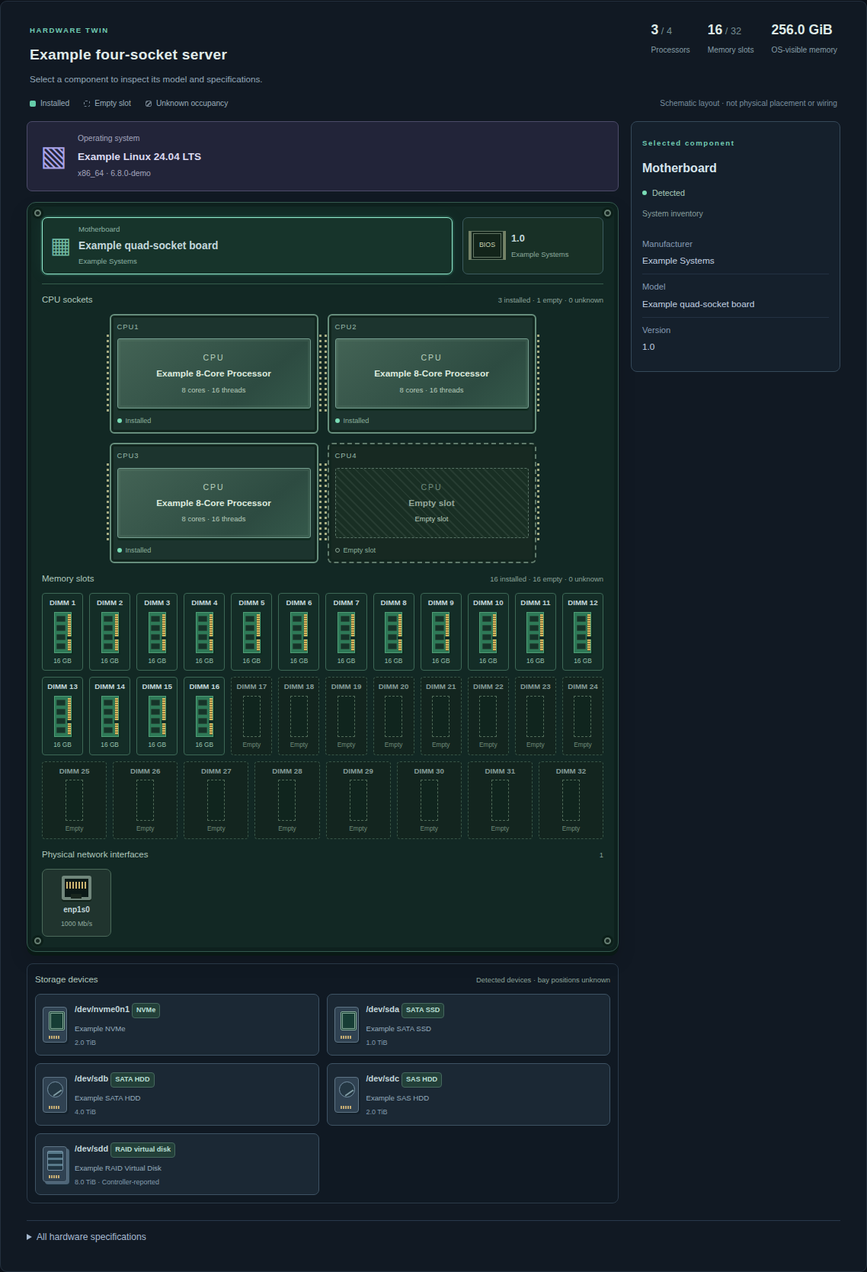
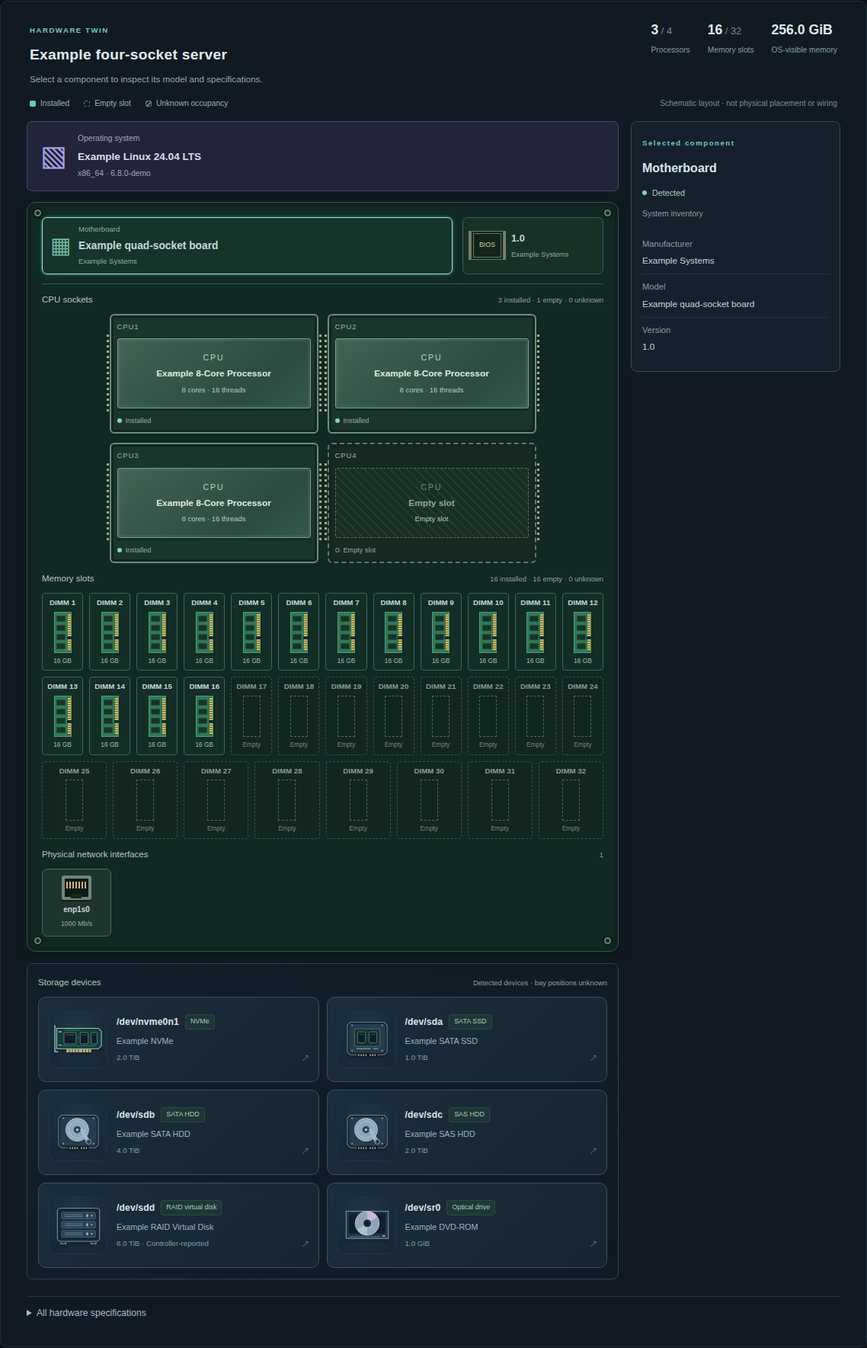
Redesign storage hardware illustrations and prepare v1.4.0

Changed region(s): [[0.0, 0.0, 1.0, 1.0], [0.7381, 0.0, 0.9534, 0.2804], [0.6766, 0.1558, 0.7074, 0.1869]]

diff --git a/static/style.css b/static/style.css
@@ -237,9 +237,6 @@ main,.content,.metric-card,.system-strip>div,.chart-grid>*,.power-grid>*,.toolba
 .twin-storage{margin-top:22px;border:1px solid #2b3b4a;border-radius:8px;padding:0 14px 14px;background:#101923}
 .twin-drives{display:grid;grid-template-columns:repeat(2,minmax(0,1fr));gap:10px}.twin-drive{display:flex;gap:10px;align-items:center;padding:12px;background:#1b2834;border-color:#3e5364}
 .twin-drive:hover{background:#243442}.twin-drive-caption{min-width:0}.twin-drive strong{font-size:.68rem;line-height:1.4}.twin-drive-caption>span{font-size:.6rem;color:#96adbe;line-height:1.5;margin:5px 0}.twin-drive small{font-size:.56rem;color:#839cae;line-height:1.5}
-.twin-drive-icon{width:32px;min-width:32px;height:47px;border:1px solid #5f7586;border-radius:4px;background:#304252;position:relative;box-shadow:2px 2px #14212b}
-.twin-drive-icon:before{content:'';position:absolute;width:19px;height:19px;border:1px solid #7591a4;border-radius:50%;left:5px;top:5px;background:#243743}.twin-drive-icon:after{content:'';position:absolute;width:15px;height:4px;bottom:4px;left:7px;background:repeating-linear-gradient(to right,#c6ad74 0 2px,transparent 2px 3px)}
-.twin-drive-icon i{position:absolute;width:13px;height:2px;top:19px;left:12px;background:#819da5;transform:rotate(-35deg)}.twin-drive-icon.optical{height:36px;width:37px;min-width:37px}
 .twin-inspector{border:1px solid #35495a;border-radius:8px;padding:18px;background:#15202c;position:sticky;top:83px;max-height:calc(100vh - 115px);overflow:auto;min-width:0;scrollbar-width:thin;scrollbar-color:#3f5b6b transparent}
 .twin-inspector h4{margin:10px 0;font-size:1rem;font-weight:550;color:#d7e5ed;overflow-wrap:anywhere}
 .twin-inspector .hardware-fields>div{grid-template-columns:minmax(0,1fr);gap:4px;padding:11px 0}.twin-inspector .hardware-fields{font-size:.7rem}.twin-inspector .hardware-fields dd{font-size:.74rem}
@@ -256,7 +253,7 @@ main,.content,.metric-card,.system-strip>div,.chart-grid>*,.power-grid>*,.toolba
 @media(max-width:600px){.twin-cpu-package{min-height:110px;aspect-ratio:auto}}
 
 /* Compact schematic; DIMM contacts run along the long edge, with a keyed notch. */
-.hardware-panel{padding:16px;min-width:0}.twin-heading{padding-top:4px;gap:12px}.twin-board{padding:19px}.twin-board-header{padding-bottom:12px;margin-bottom:12px}.twin-zone-heading{margin:12px 0 9px}.twin-cpu-grid{gap:12px;max-width:560px}.twin-cpu-package{min-height:92px;aspect-ratio:auto;padding:10px 8px;gap:5px}.twin-cpu{padding:8px}.twin-dimm{min-height:96px;gap:5px;padding:6px 3px}.twin-dimm-stick{height:54px;width:23px;border:1px solid #4f9e76;padding-right:4px}.twin-dimm-stick i{width:12px;height:8px}.twin-installed .twin-dimm-stick:before{content:'';position:absolute;right:0;top:2px;bottom:2px;width:4px;background:repeating-linear-gradient(to bottom,#d7b960 0 2px,#735f2e 2px 3px)}.twin-installed .twin-dimm-stick:after{content:'';left:auto;right:-1px;top:60%;bottom:auto;width:6px;height:4px;background:#142d27}.twin-empty .twin-dimm-stick:before,.twin-unknown .twin-dimm-stick:before,.twin-unknown .twin-dimm-stick:after{display:none}.twin-nic{padding:8px 10px;gap:5px}.twin-storage{margin-top:15px;padding:0 10px 10px}.twin-drive{padding:9px}.twin-inspector{padding:14px}.twin-inspector .hardware-fields>div{padding:8px 0}.twin-drive-type{display:inline-block;font-style:normal;font-size:.57rem;color:#b9dfd5;background:#234039;border:1px solid #46685e;padding:2px 5px;border-radius:4px;margin:2px 0;line-height:1.5}.twin-drive-icon.ssd:before{border-radius:2px;width:15px;height:19px;left:7px;background:#163d35;border:3px double #87ac99}.twin-drive-icon.ssd i{display:none}.twin-drive-icon.raid{box-shadow:3px 3px #4d6577,6px 6px #192a36}.twin-drive-icon.raid:before{border-radius:2px;height:24px;background:repeating-linear-gradient(to bottom,#587a8b 0 3px,#213643 3px 8px)}.twin-drive-icon.raid i,.twin-drive-icon.virtual i,.twin-drive-icon.unknown i{display:none}.twin-drive-icon.virtual:before,.twin-drive-icon.unknown:before{border-radius:3px;border-style:dashed;background:transparent}
+.hardware-panel{padding:16px;min-width:0}.twin-heading{padding-top:4px;gap:12px}.twin-board{padding:19px}.twin-board-header{padding-bottom:12px;margin-bottom:12px}.twin-zone-heading{margin:12px 0 9px}.twin-cpu-grid{gap:12px;max-width:560px}.twin-cpu-package{min-height:92px;aspect-ratio:auto;padding:10px 8px;gap:5px}.twin-cpu{padding:8px}.twin-dimm{min-height:96px;gap:5px;padding:6px 3px}.twin-dimm-stick{height:54px;width:23px;border:1px solid #4f9e76;padding-right:4px}.twin-dimm-stick i{width:12px;height:8px}.twin-installed .twin-dimm-stick:before{content:'';position:absolute;right:0;top:2px;bottom:2px;width:4px;background:repeating-linear-gradient(to bottom,#d7b960 0 2px,#735f2e 2px 3px)}.twin-installed .twin-dimm-stick:after{content:'';left:auto;right:-1px;top:60%;bottom:auto;width:6px;height:4px;background:#142d27}.twin-empty .twin-dimm-stick:before,.twin-unknown .twin-dimm-stick:before,.twin-unknown .twin-dimm-stick:after{display:none}.twin-nic{padding:8px 10px;gap:5px}.twin-storage{margin-top:15px;padding:0 10px 10px}.twin-drive{padding:9px}.twin-inspector{padding:14px}.twin-inspector .hardware-fields>div{padding:8px 0}.twin-drive-type{display:inline-block;font-style:normal;font-size:.57rem;color:#b9dfd5;background:#234039;border:1px solid #46685e;padding:2px 5px;border-radius:4px;margin:2px 0;line-height:1.5}
 @media(max-width:600px){.hardware-panel{padding:10px}.twin-board{padding:18px 12px}.twin-cpu-package{min-height:88px}.sidebar nav a{padding-inline:7px}}
 
 /* Consistent native controls preserve keyboard navigation and mobile pickers. */
@@ -267,3 +264,13 @@ select:hover{border-color:#62897e;background-color:#1e3040}select:focus-visible{
 /* Keep confirmed capacity visible while historical ownership catches up. */
 .disk-user-table .stale-allocation th,.disk-user-table .stale-allocation td,.disk-user-table .stale-allocation .storage-link{color:#8e9bab}.stale-allocation .user-swatch{background:#7b8593!important}.stale-note{padding:9px 11px;background:#939ead0a;border-left:2px solid #778697}.event-status{margin:0;padding:8px 18px 10px;font-size:.68rem;color:#8d9eb4;overflow-wrap:anywhere}.events-panel .panel-heading{padding:15px 18px 0}.events-panel #event-list{max-height:360px;overflow:auto;overscroll-behavior:contain;scrollbar-width:thin;scrollbar-color:#435a6c transparent}.events-panel #event-list:focus-visible{outline:2px solid #76d8b6;outline-offset:-2px}.events-panel .event{grid-template-columns:150px 120px minmax(0,1fr);padding:9px 18px;gap:7px 12px;font-size:.74rem;line-height:1.5}.events-panel .event time{font-size:.66rem}.events-panel .event .pill{font-size:.62rem;white-space:normal}.events-panel .event small{font-size:.6rem;margin-top:1px}.events-panel .load-more{padding:10px}.events-panel .event-text{min-width:0}
 @media(max-width:600px){.events-panel .event{grid-template-columns:minmax(0,1fr) auto;padding:9px 13px;gap:4px 8px}.events-panel .event .event-text{grid-column:1/-1}.events-panel #event-list{max-height:320px}.events-panel .panel-heading{padding:13px 13px 0}.event-status{padding-inline:13px}}
+
+/* Storage illustrations share a view box, lighting and visual weight. */
+.twin-storage{padding:4px 14px 14px;background:linear-gradient(145deg,#111e29,#101923);border-color:#304452}.twin-drives{grid-template-columns:repeat(auto-fit,minmax(min(100%,260px),1fr));gap:10px}.twin-drive{position:relative;display:grid;grid-template-columns:76px minmax(0,1fr);gap:13px;align-items:center;min-height:112px;padding:13px;background:linear-gradient(140deg,#1c2d3b,#162531);border-color:#385061;border-radius:10px;isolation:isolate}.twin-drive-art{display:grid;place-items:center;width:76px;height:76px;border-radius:12px;background:radial-gradient(ellipse at 50% 35%,#405d7140,#0b172544);border:1px solid #6e8ca51a;color:#80c8b5}.drive-glyph{display:block;width:76px;height:auto;filter:drop-shadow(0 4px 2px #050e164d)}.drive-hdd{color:#8bbce2}.drive-nvme{color:#82dbc7}.drive-raid{color:#99b9f0}.drive-optical{color:#b5a4da}.drive-virtual{color:#b0a2d6}.drive-unknown{color:#8d9eae}.twin-drive-caption{display:flex;flex-direction:column;gap:7px;min-width:0}.twin-drive-caption>.twin-drive-topline{display:flex;gap:6px 8px;align-items:center;flex-wrap:wrap;margin:0}.twin-drive-topline strong{font-size:.76rem;color:#d9e6ed;letter-spacing:.01em}.twin-drive-type{margin:0;font-size:.56rem;padding:2px 6px;color:#a9cbbb;background:#26413688;border-color:#527c674d;line-height:1.55}.twin-drive-caption>.twin-drive-model{font-size:.67rem;color:#9db2c3;line-height:1.5;margin:0;overflow-wrap:anywhere}.twin-drive-caption>.twin-drive-bottom{display:flex;align-items:center;justify-content:space-between;gap:8px;margin:0}.twin-drive-bottom small{font-size:.61rem;color:#829dad;font-variant-numeric:tabular-nums}.twin-drive-arrow{font-size:.95rem;line-height:1;color:#7897a7;opacity:.65;flex-shrink:0}.twin-drive[aria-pressed=true]{background:linear-gradient(135deg,#223d3c,#192e35);border-color:#82d3b7;box-shadow:inset 0 0 0 1px #82d3b71a,0 4px 16px #0002}.twin-drive[aria-pressed=true] .twin-drive-arrow{opacity:1;color:#98e6cb}
+/* Motion responds to deliberate interaction; telemetry refreshes stay stable. */
+nav a,.segmented button,.interface-filters button,.language-menu button,.storage-link,.button{transition:background-color .18s ease,border-color .18s ease,color .18s ease,box-shadow .18s ease}.twin-part{transition:background-color .18s ease,border-color .18s ease,box-shadow .18s ease,transform .18s ease}.twin-drive-arrow,.drive-glyph{transition:transform .2s ease,opacity .2s ease}.language-menu:not([hidden]){transform-origin:top right;animation:menu-reveal .16s ease-out}.sensor-details[open]>.sensors{animation:content-reveal .2s ease-out}.custom-range:not([hidden]){animation:content-reveal .18s ease-out}.twin-back{transition:background-color .18s ease,border-color .18s ease}
+@keyframes menu-reveal{from{opacity:0;transform:translateY(-4px) scale(.98)}to{opacity:1;transform:translateY(0) scale(1)}}
+@keyframes content-reveal{from{opacity:.35;transform:translateY(-4px)}to{opacity:1;transform:translateY(0)}}
+@media(hover:hover) and (prefers-reduced-motion:no-preference){.twin-drive:hover{transform:translateY(-2px);box-shadow:0 6px 16px #0003}.twin-drive:hover .drive-glyph{transform:translateY(-1px)}.twin-drive:hover .twin-drive-arrow{transform:translate(1px,-1px);opacity:1}.button:active,.twin-drive:active{transform:translateY(0)}}
+@media(max-width:600px){.twin-storage{padding:3px 10px 10px}.twin-drive{grid-template-columns:62px minmax(0,1fr);gap:10px;padding:11px;min-height:100px}.twin-drive-art{width:62px;height:68px}.drive-glyph{width:64px}.twin-drive-topline strong{font-size:.71rem}.twin-drive-caption>.twin-drive-model{font-size:.63rem}}
+@media(prefers-reduced-motion:reduce){html{scroll-behavior:auto!important}*,*::before,*::after{animation:none!important;transition:none!important}}

diff --git a/static/hardware-twin.js b/static/hardware-twin.js
@@ -14,10 +14,27 @@ window.HardwareTwin = (() => {
     if(disk.type==='rom')return {label:'Optical drive',kind:'optical'};
     if(/^raid|^md$/.test(disk.type||'')||/\bPERC\b|MegaRAID|Smart Array|\bRAID\b/i.test(model))return {label:'RAID virtual disk',kind:'raid'};
     if(/Virtual Disk|VMware|QEMU|VBOX|Virtual HD/i.test(model)||transport==='virtio')return {label:'Virtual disk',kind:'virtual'};
-    if(transport==='nvme'||/\/nvme\d+n\d+$/.test(disk.name||''))return {label:'NVMe',kind:'ssd'};
+    if(transport==='nvme'||/\/nvme\d+n\d+$/.test(disk.name||''))return {label:'NVMe',kind:'nvme'};
     const media=rotation===true?'HDD':rotation===false?'SSD':'';
     const bus=transport==='sata'?'SATA':transport==='sas'?'SAS':transport?transport.toUpperCase():String(disk.vendor||'').trim()==='ATA'?'ATA':'';
     return {label:[bus,media].filter(Boolean).join(' ')||'Unknown drive type',kind:rotation===true?'hdd':rotation===false?'ssd':'unknown'};
+  }
+  // Illustrative device categories, not inferred physical form factors or bay positions.
+  function driveGlyph(kind){
+    const screws='<g fill="#91a7b8"><circle cx="23" cy="17" r="1.3"/><circle cx="73" cy="17" r="1.3"/><circle cx="23" cy="59" r="1.3"/><circle cx="73" cy="59" r="1.3"/></g>';
+    const shell='<path d="M20 12h56l5 5v44l-5 5H20l-5-5V17z" fill="#142331" stroke="#688195" stroke-width="1.4"/><path d="M20 15h55l3 3v40l-4 5H21l-3-4V19z" fill="#263c4d"/>';
+    const contacts='<path d="M31 64h34v5H31z" fill="#0a1720"/><path d="M34 65v3m4-3v3m4-3v3m4-3v3m7-3v3m4-3v3m4-3v3" stroke="#cbb478" stroke-width="2"/>';
+    const chip=(x,y,w,h)=>`<rect x="${x}" y="${y}" width="${w}" height="${h}" rx="2" fill="#101c27" stroke="currentColor" stroke-opacity=".65"/><path d="M${x+3} ${y+4}h${w-6}" stroke="#526b77"/>`;
+    const artwork={
+      ssd:shell+screws+'<rect x="27" y="23" width="42" height="29" rx="3" fill="#1a302f" stroke="currentColor" stroke-opacity=".5"/>'+chip(32,28,13,18)+chip(51,28,13,18)+'<path d="M30 56h24m4 0h8" stroke="#6e8d91" stroke-width="2"/>'+contacts,
+      hdd:shell+screws+'<circle cx="46" cy="36" r="19" fill="#91a7b8" stroke="#c3d1dc"/><circle cx="46" cy="36" r="14" fill="none" stroke="#b6c7d1"/><circle cx="46" cy="36" r="6" fill="#2d4657"/><circle cx="46" cy="36" r="2" fill="#c0d4df"/><path d="m67 55-13-21-3 2 11 23z" fill="currentColor" stroke="#b9ccd3" stroke-width=".7"/><circle cx="65" cy="56" r="4" fill="#233c50" stroke="#a0b8c7"/>'+contacts,
+      nvme:'<path d="M12 22h69l5 5v24l-5 5H12z" fill="#173936" stroke="currentColor" stroke-width="1.3"/><path d="M9 17v44h5M15 28h5m-5 22h5" fill="none" stroke="#9aadbb" stroke-width="2"/><path d="M28 57h41v5H28z" fill="#c5ad72"/><path d="M33 57v5m5-5v5m5-5v5m5-5v5m7-5v5m5-5v5m5-5v5" stroke="#17302c"/>'+chip(24,29,20,19)+chip(51,29,13,19)+chip(69,29,10,19)+'<path d="M25 25h27m-6 13h3M20 51h57" stroke="currentColor" stroke-opacity=".45" fill="none"/>',
+      raid:'<rect x="13" y="12" width="70" height="55" rx="5" fill="#152535" stroke="#7890a4" stroke-width="1.4"/><path d="M19 68v3h8v-3m42 0v3h8v-3" stroke="#657f92" stroke-width="2"/>'+[19,34,49].map(y=>`<rect x="20" y="${y}" width="56" height="11" rx="2" fill="#2b4154" stroke="#566e83"/><path d="M25 ${y+4}h30m-30 3h30" stroke="#7790a2" stroke-width="1"/><rect x="61" y="${y+3}" width="3" height="5" rx="1" fill="currentColor"/><circle cx="70" cy="${y+5.5}" r="1.3" fill="#b9ca93"/>`).join(''),
+      optical:'<path d="M13 17h70v45H13z" fill="#203548" stroke="#7c94a7" stroke-width="1.4"/><path d="M18 21h60v33H18z" fill="#111f2d"/><circle cx="48" cy="37" r="20" fill="#91a3ba" stroke="#c4cedd"/><path d="M48 17a20 20 0 0 1 17 10L48 37z" fill="#c5b9dc"/><path d="M48 57a20 20 0 0 1-17-10l17-10z" fill="#a6c5cd"/><circle cx="48" cy="37" r="7" fill="#1b2b3a" stroke="#d5dce5"/><circle cx="48" cy="37" r="3" fill="#0f1c28"/><path d="M19 59h50" stroke="#698196"/><rect x="73" y="57" width="5" height="2" rx="1" fill="currentColor"/>',
+      virtual:'<path d="m48 13 29 15v31L48 73 19 59V28z" transform="translate(0 -5)" fill="#24374d" stroke="currentColor" stroke-width="1.4" stroke-dasharray="4 3"/><path d="m19 23 29 16 29-16M48 39v29" stroke="currentColor" stroke-opacity=".6" fill="none"/><path d="m36 19 25 14v18" fill="none" stroke="#8797ba"/>',
+      unknown:shell+screws+'<path d="M41 29a8 8 0 1 1 13 6c-5 3-6 4-6 8" fill="none" stroke="#9eafbd" stroke-width="3" stroke-linecap="round"/><circle cx="48" cy="51" r="2" fill="#9eafbd"/>'
+    };
+    return `<svg class="drive-glyph" viewBox="0 0 96 80" fill="none" aria-hidden="true" focusable="false">${artwork[kind]||artwork.unknown}</svg>`;
   }
   function prepare(data){
     const records=data.firmware_records||[],memory=data.memory||{},cpu=data.cpu||{};
@@ -54,7 +71,7 @@ window.HardwareTwin = (() => {
     const memoryButtons=m.slots.map(part=>button(part,`<span class="twin-dimm-label">${esc(part.label||'?')}</span><span class="twin-dimm-stick" aria-hidden="true"><i></i><i></i><i></i><i></i></span><span class="twin-dimm-size">${esc(part.state==='installed'?clean(part.fields.Size)||'—':part.state==='empty'?t('Empty'):'?')}</span>`,'twin-dimm'));
     const memoryRows=Array.from({length:Math.ceil(memoryButtons.length/12)},(_,index)=>`<div class="twin-dimm-grid">${memoryButtons.slice(index*12,index*12+12).join('')}</div>`).join('');
     const nicButtons=m.nics.map(part=>button(part,`<span class="twin-port-jack" aria-hidden="true"><i></i></span><strong>${esc(partLabel(part))}</strong><small>${esc(part.fields['Speed (Mbps)']&&Number(part.fields['Speed (Mbps)'])>0?part.fields['Speed (Mbps)']+' Mb/s':t('Physical NIC'))}</small>`,'twin-nic')).join('');
-    const diskButtons=m.disks.map(part=>button(part,`<span class="twin-drive-icon ${part.classification.kind}" aria-hidden="true"><i></i></span><span class="twin-drive-caption"><strong>${esc(partLabel(part))} <em class="twin-drive-type">${esc(t(part.classification.label))}</em></strong><span>${esc(part.model||t('Model unavailable'))}</span><small>${esc(bytes(part.size))}${part.controller?' · '+esc(t('Controller-reported')):''}</small></span>`,'twin-drive')).join('');
+    const diskButtons=m.disks.map(part=>button(part,`<span class="twin-drive-art drive-${part.classification.kind}">${driveGlyph(part.classification.kind)}</span><span class="twin-drive-caption"><span class="twin-drive-topline"><strong>${esc(partLabel(part))}</strong><em class="twin-drive-type">${esc(t(part.classification.label))}</em></span><span class="twin-drive-model">${esc(part.model||t('Model unavailable'))}</span><span class="twin-drive-bottom"><small>${esc(bytes(part.size))}${part.controller?' · '+esc(t('Controller-reported')):''}</small><span class="twin-drive-arrow" aria-hidden="true">↗</span></span></span>`,'twin-drive')).join('');
     return `<section class="hardware-twin" aria-label="${esc(t('Hardware twin'))}">
       <header class="twin-heading"><div><span class="twin-eyebrow">${esc(t('HARDWARE TWIN'))}</span><h3>${esc(data.system?.['Product name']||m.board.model||t('Server hardware'))}</h3><p>${esc(t('Select a component to inspect its model and specifications.'))}</p></div><div class="twin-counts">${countPill('Processors',m.cpuStats)}${countPill('Memory slots',m.memoryStats)}<span class="twin-count"><strong>${esc(bytes(m.memoryBytes))}</strong><span>${esc(t('OS-visible memory'))}</span></div></header>
       <div class="twin-legend">${['installed','empty','unknown'].map(state=>`<span><i class="twin-legend-${state}"></i>${esc(t(statusKey({state})))}</span>`).join('')}<span class="twin-diagram-note">${esc(t('Schematic layout · not physical placement or wiring'))}</span></div>
@@ -75,7 +92,7 @@ window.HardwareTwin = (() => {
       </div><aside class="twin-inspector" id="twin-inspector" aria-label="${esc(t('Selected component'))}" aria-live="polite"></aside></div>
     </section>`;
   }
-  function inspect(){
+  function inspect(animate=false){
     if(!current||!settings)return;
     const host=document.getElementById('hardware-content'),panel=document.getElementById('twin-inspector');if(!panel)return;
     const part=current.parts.find(item=>item.id===selected)||current.board,{esc,bytes}=settings;
@@ -85,10 +102,14 @@ window.HardwareTwin = (() => {
       (part.state==='empty'?`<div class="twin-empty-illustration" aria-hidden="true">${part.kind==='cpu'?'▦':'▥'}</div><p class="twin-empty-note">${esc(t('This slot is reported as unoccupied.'))}</p>`:'')+
       (part.controller?`<p class="twin-evidence-note">${esc(t('This is the model reported by the storage controller; member-drive models may be unavailable.'))}</p>`:'')+
       `<dl class="hardware-fields">${Object.entries(fields).map(([key,value])=>`<div><dt>${esc(t(key))}</dt><dd class="${clean(value)?'':'hardware-unavailable'}">${esc(clean(value)||t('Unavailable'))}</dd></div>`).join('')}</dl>`;
+    panel.getAnimations().forEach(animation=>animation.cancel());
+    if(animate&&!matchMedia('(prefers-reduced-motion: reduce)').matches){panel.animate([{opacity:.65,transform:'translateY(4px)'},{opacity:1,transform:'translateY(0)'}],{duration:170,easing:'ease-out'});}
   }
   function mount(){
     const host=document.getElementById('hardware-content');if(!host)return;
     if(!host._twinBound){
+      const motion=matchMedia('(prefers-reduced-motion: reduce)');
+      motion.addEventListener('change',()=>{if(motion.matches)document.getElementById('twin-inspector')?.getAnimations().forEach(animation=>animation.cancel());});
       host.addEventListener('click',event=>{
         if(event.target.closest('[data-twin-back]')){
           const button=[...host.querySelectorAll('[data-twin-part]')].find(item=>item.dataset.twinPart===selected);
@@ -96,7 +117,7 @@ window.HardwareTwin = (() => {
         }
         const button=event.target.closest('[data-twin-part]');
         if(button&&current?.parts.some(part=>part.id===button.dataset.twinPart)){
-          selected=button.dataset.twinPart;inspect();
+          selected=button.dataset.twinPart;inspect(true);
           if(matchMedia('(max-width:1100px)').matches)document.getElementById('twin-inspector').scrollIntoView({block:'center',behavior:'instant'});
         }
       });
@@ -104,5 +125,5 @@ window.HardwareTwin = (() => {
     }
     inspect();
   }
-  return {prepare,occupancy,classifyDrive,html,mount};
+  return {prepare,occupancy,classifyDrive,driveGlyph,html,mount};
 })();

diff --git a/static/index.html b/static/index.html
@@ -5,7 +5,7 @@
   <meta name="description" content="Live metrics and historical monitoring for server resources, users, Docker containers, and UPS power.">
   <title>NodePeek · Server resources</title>
   <link rel="icon" href="/static/favicon.svg" type="image/svg+xml">
-  <link rel="stylesheet" href="/static/style.css?v=e263beed0322">
+  <link rel="stylesheet" href="/static/style.css?v=c8ffa1595a28">
   <script src="/static/vendor/echarts.min.js?v=bf4a223524e4" defer></script>
   <script src="/static/locales.js?v=96f9653463ca" defer></script>
   <script src="/static/i18n.js?v=3db8398722d1" defer></script>
@@ -13,7 +13,7 @@
   <script src="/static/network.js?v=91a1f35b0fae" defer></script>
   <script src="/static/disk-history.js?v=936a3cdd46de" defer></script>
   <script src="/static/users.js?v=1c9e9f62bf32" defer></script>
-  <script src="/static/hardware-twin.js?v=42c2a5976665" defer></script>
+  <script src="/static/hardware-twin.js?v=74ef3920a2d3" defer></script>
   <script src="/static/hardware.js?v=768f929857dc" defer></script>
   <script src="/static/app.js?v=1de14c684aea" defer></script>
 </head>

diff --git a/scripts/check_independent_ranges.py b/scripts/check_independent_ranges.py
@@ -9,6 +9,16 @@ def check_page(page):
     page.evaluate("I18n.setLanguage('en')")
     page.set_viewport_size({'width':1440,'height':1000})
     page.wait_for_function('()=>state.history && state.networkHistory.data && state.containerHistory.data && state.powerHistory.data')
+    assert page.locator('.twin-drive .drive-glyph').count()==page.evaluate('state.hardware.disks.length')
+    page.locator('.twin-drive').first.click()
+    assert page.locator('.twin-drive').first.get_attribute('aria-pressed')=='true'
+    page.emulate_media(reduced_motion='reduce')
+    page.locator('.twin-drive').last.focus()
+    page.keyboard.press('Enter')
+    assert page.locator('.twin-drive').last.get_attribute('aria-pressed')=='true'
+    assert page.locator('#twin-inspector').evaluate('(e)=>e.getAnimations().length===0')
+    assert page.locator('.twin-drive').first.evaluate('(e)=>getComputedStyle(e).transitionDuration')=='0s'
+    page.emulate_media(reduced_motion='no-preference')
     page.locator('#network-range-buttons [data-section-range="604800"]').click()
     page.wait_for_function('()=>!state.networkHistory.loading && state.networkHistory.data')
     assert page.evaluate('state.range===3600 && state.containerHistory.range===3600 && state.networkHistory.range===604800')

diff --git a/scripts/build_release.py b/scripts/build_release.py
@@ -88,11 +88,14 @@ def main():
     zip_archive(path, f'nodepeek-{version}-source', source_files)
     assets.append(path)
     (output / 'SHA256SUMS').write_text(''.join(f'{hashlib.sha256(path.read_bytes()).hexdigest()}  {path.name}\n' for path in assets))
+    changelog = (ROOT / 'CHANGELOG.md').read_text()
+    entry = re.search(r'^## ' + re.escape(version) + r'\s*\n(.*?)(?=^## |\Z)', changelog, re.M | re.S)
+    highlights = "## What's new\n\n" + entry.group(1).strip() + "\n\n" if entry else ''
     (output / 'RELEASE_NOTES.md').write_text(f'''# NodePeek v{version} — User & Admin Editions
 
 See every user. Understand every resource.
 
-A self-hosted Linux dashboard for per-user CPU, memory and storage, networking,
+{highlights}A self-hosted Linux dashboard for per-user CPU, memory and storage, networking,
 Docker, temperatures, an interactive 2D hardware twin and UPS power events. History stays in
 local SQLite. English, Chinese, Korean, Spanish and Japanese are included.
 

diff --git a/scripts/demo_data.py b/scripts/demo_data.py
@@ -78,6 +78,7 @@ def dataset(now=None):
         {'name': '/dev/sdc', 'model': 'Example SAS HDD', 'tran': 'sas', 'rota': True, 'type': 'disk', 'size': 2*1024**4},
         {'name': '/dev/sdd', 'model': 'Example RAID Virtual Disk', 'tran': 'sas', 'rota': True, 'type': 'disk', 'size': 8*1024**4},
     ]
+    hardware['disks'].append({'name':'/dev/sr0','model':'Example DVD-ROM','type':'rom','tran':'sata','rota':False,'size':1024**3})
     hardware['memory']['slots'] = 8
     hardware['memory']['empty_slots'] = 4
     hardware['firmware_records'] = [

diff --git a/README.md b/README.md
@@ -12,7 +12,7 @@ No cloud account, frontend build step, CDN or external database. Choose an unpri
 
 Network & disk I/O, Docker, and Power each have independent time controls (15m–30d presets and custom dates up to 90 days). Changing Resource trends does not change these sections.
 
-Development workflow and CI: [contributing guide](CONTRIBUTING.md). Repository: [Shall-We-Dance/NodePeak](https://github.com/Shall-We-Dance/NodePeak); product name: **NodePeek**.
+Development workflow and CI: [contributing guide](CONTRIBUTING.md). Repository: [Shall-We-Dance/NodePeek](https://github.com/Shall-We-Dance/NodePeek); product name: **NodePeek**.
 
 Power defaults to the last 24 hours; its time range also filters the event log. Temperature sensors are collapsed initially. If files change between disk scans, live capacity stays visible and inconsistent ownership values are marked as historical until the next scan.
 
@@ -34,7 +34,7 @@ Both editions have the same dashboard and history format. The difference is the 
 
 | | User Edition — **no sudo** | Admin Edition — **sudo/root** |
 | --- | --- | --- |
-| Release asset | `nodepeek-1.3.2-user.tar.gz` | `nodepeek-1.3.2-admin.tar.gz` |
+| Release asset | `nodepeek-1.4.0-user.tar.gz` | `nodepeek-1.4.0-admin.tar.gz` |
 | Installer | Run as your regular account | Run with sudo/root |
 | Runtime | Your account; refuses root | Root system service |
 | Installation | `~/.local/share/nodepeek` | `/opt/nodepeek` |
@@ -57,8 +57,8 @@ Download the desired `.tar.gz` and `SHA256SUMS` from the repository's GitHub **R
 ### User Edition: no sudo
 
 ```bash
-tar -xzf nodepeek-1.3.2-user.tar.gz
-cd nodepeek-1.3.2-user
+tar -xzf nodepeek-1.4.0-user.tar.gz
+cd nodepeek-1.4.0-user
 sh install.sh
 ```
 
@@ -74,8 +74,8 @@ The foreground process ends when its session ends unless your session manager ke
 ### Admin Edition: sudo/root
 
 ```bash
-tar -xzf nodepeek-1.3.2-admin.tar.gz
-cd nodepeek-1.3.2-admin
+tar -xzf nodepeek-1.4.0-admin.tar.gz
+cd nodepeek-1.4.0-admin
 sudo sh install.sh
 ```
 

diff --git a/docs/OPERATIONS.md b/docs/OPERATIONS.md
@@ -10,7 +10,7 @@ For an update:
 
 1. Back up the database and configuration.
 2. Stop the old collector (`systemctl --user stop nodepeek` or `sudo systemctl stop nodepeek`).
-3. Extract the matching new edition and install using a fresh absolute `--prefix`. For example, a future version could use `$HOME/.local/share/nodepeek-1.3.3` or `/opt/nodepeek-1.3.3`.
+3. Extract the matching new edition and install using a fresh absolute `--prefix`. For example, a future version could use `$HOME/.local/share/nodepeek-1.4.0` or `/opt/nodepeek-1.4.0`.
 4. The existing config/data remain in their original paths. The systemd service is updated to use the new code; a prior unit is retained as `.service.bak`.
 5. Verify the service and dashboard before removing the old code. If installation fails, correct the error and use a fresh prefix, or restore the previous service unit. Do not delete configuration or history to retry.
 

diff --git a/CHANGELOG.md b/CHANGELOG.md
@@ -1,12 +1,12 @@
 # Changelog
 
-## Unreleased
+## 1.4.0
+
+- Redraw storage devices as distinct SVG illustrations, refine hardware cards, and add interaction transitions that respect reduced-motion preferences.
 
 - Keep live used/free/reserved disk capacity visible after file deletion; label inconsistent user totals as historical and avoid fabricated attribution.
 - Give power/temperature charts and events an independent time range, collapse sensors by default, and compact the scrollable event list.
-
-- Add read-only CI for supported Python versions, frontend tests, generated assets, release reproducibility/audits and synthetic browser previews.
-- Document the repository maintenance workflow and keep generated source manifests out of the editable repository root.
+- Expand the hardware README section, simplify HTTP access guidance, and use English contribution and release documentation.
 
 ## 1.3.2
 

diff --git a/CONTRIBUTING.md b/CONTRIBUTING.md
@@ -1,14 +1,14 @@
 # Contributing
 
-The software is **NodePeek**; its repository is [Shall-We-Dance/NodePeak](https://github.com/Shall-We-Dance/NodePeak). The spelling difference does not change package names or `nodepeek.service`.
+The software is **NodePeek**; its repository is [Shall-We-Dance/NodePeek](https://github.com/Shall-We-Dance/NodePeek). The systemd service is named `nodepeek.service`.
 
 ## Work in a source checkout
 
 Use a branch in a clean clone, separate from a running installation and its database:
 
 ```bash
-gh repo clone Shall-We-Dance/NodePeak
-cd NodePeak
+gh repo clone Shall-We-Dance/NodePeek
+cd NodePeek
 git switch -c fix/describe-the-change
 python3 -m venv .venv
 .venv/bin/python -m pip install -r requirements-dev.txt

diff --git a/docs/RELEASING.md b/docs/RELEASING.md
@@ -1,8 +1,8 @@
 # Publishing NodePeek / 发布指南
 
-Project repository: [Shall-We-Dance/NodePeak](https://github.com/Shall-We-Dance/NodePeak). The product and package name is **NodePeek**.
+Project repository: [Shall-We-Dance/NodePeek](https://github.com/Shall-We-Dance/NodePeek). The product and package name is **NodePeek**.
 
-项目仓库名为 **NodePeak**，软件和安装包名为 **NodePeek**。
+项目仓库名为 **NodePeek**，软件和安装包名为 **NodePeek**。
 
 ## Prepare a release
 
